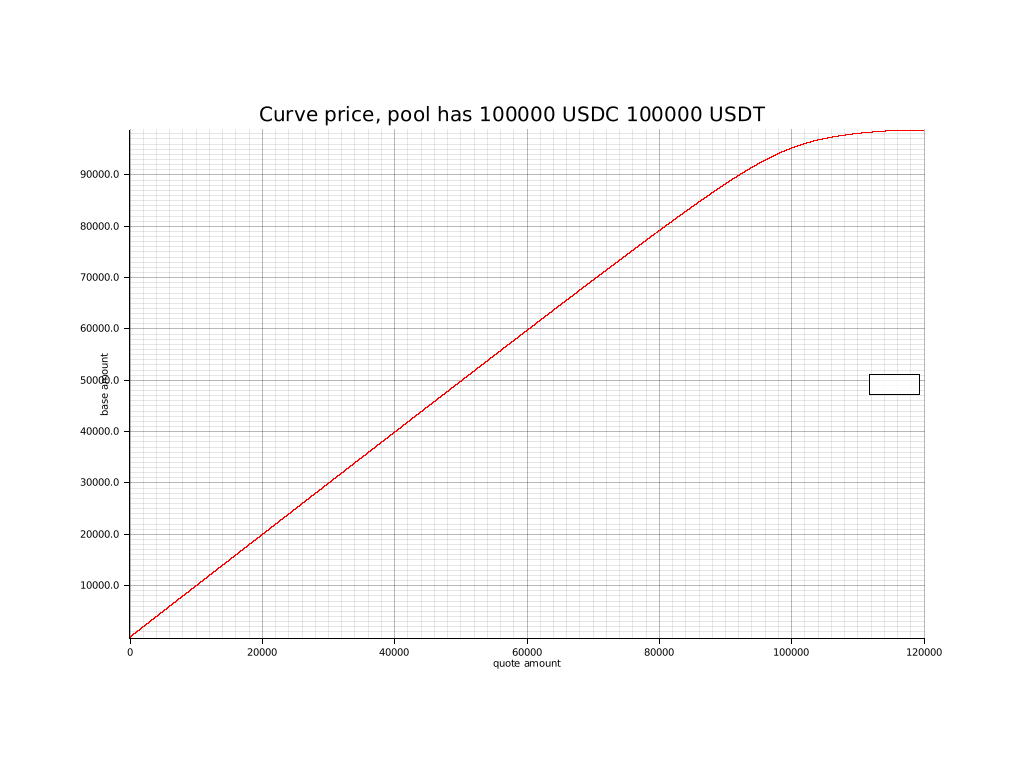
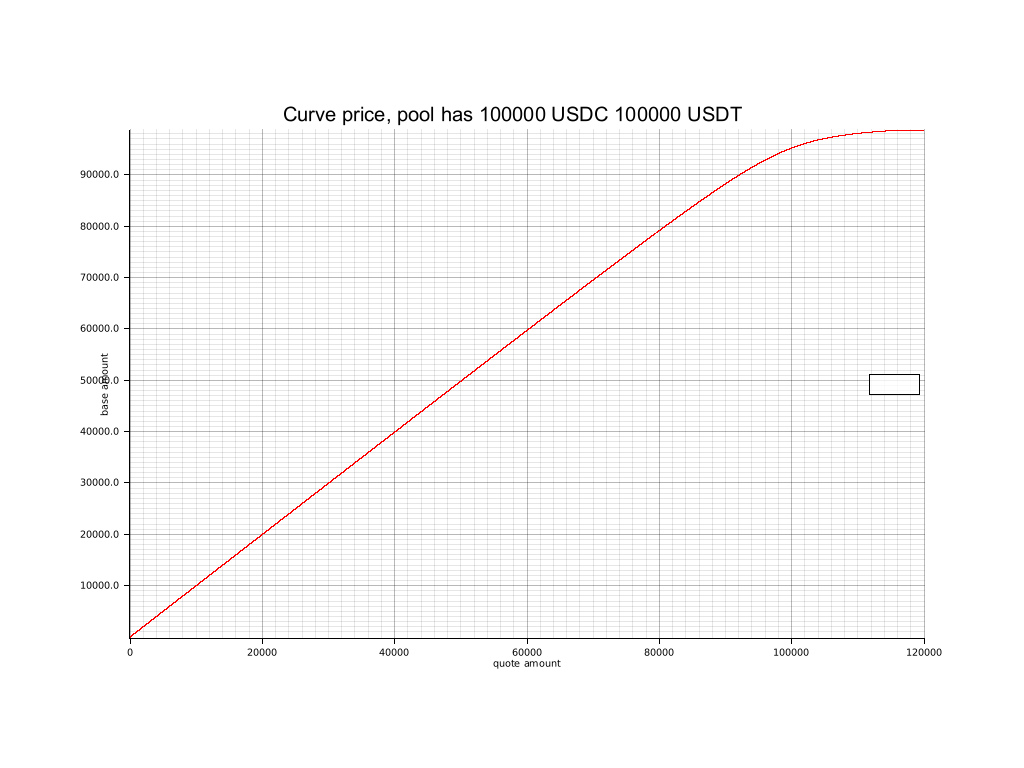
fix(curve-amm): mocks + curve graph drawing

Changed region(s): [[0.25, 0.125, 0.75, 0.1562], [0.5, 0.8438, 0.5312, 0.875], [0.0938, 0.4688, 0.125, 0.5]]

diff --git a/frame/curve-amm/src/tests.rs b/frame/curve-amm/src/tests.rs
@@ -427,20 +427,21 @@ fn curve_graph() {
 	new_test_ext().execute_with(|| {
 		let unit = 1_000_000_000_000_u128;
 		let initial_usdt = 5_u128 * unit;
-		let initial_usdc = 5_u128 * unit;
+		let initial_usdc = initial_usdt;
 		let pool_id = create_pool(
 			USDC,
 			USDT,
 			initial_usdc,
 			initial_usdt,
-			100_u16,
+			5_u16,
 			Permill::zero(),
 			Permill::zero(),
 		);
-		let max_base = (initial_usdt + initial_usdc);
-		let max_quote = (initial_usdt + initial_usdc);
+		let window = 15u128;
+		let max_base = (initial_usdt + window * unit) as f64 / unit as f64;
+		let max_quote = max_base;
 		let pool_account = StableSwap::account_id(&pool_id);
-		let range: Vec<u128> = (0..15_u128).collect();
+		let range: Vec<u128> = (0..window).collect();
 
 		let quote_balance = Tokens::balance(USDT, &pool_account);
 		let base_balance = Tokens::balance(USDC, &pool_account);
@@ -451,8 +452,10 @@ fn curve_graph() {
 				Tokens::mint_into(USDC, &BOB, amount);
 				let _base = <StableSwap as CurveAmm>::sell(&BOB, pool_id, USDC, amount, true)
 					.expect("impossible; qed;");
-				let pool_sell_asset_balance = Tokens::balance(USDC, &pool_account);
-				let pool_buy_asset_balance = Tokens::balance(USDT, &pool_account);
+				let pool_sell_asset_balance =
+					Tokens::balance(USDC, &pool_account) as f64 / unit as f64;
+				let pool_buy_asset_balance =
+					Tokens::balance(USDT, &pool_account) as f64 / unit as f64;
 				(pool_buy_asset_balance, pool_sell_asset_balance)
 			})
 			.collect::<Vec<_>>();
@@ -461,7 +464,7 @@ fn curve_graph() {
 			USDT,
 			initial_usdc,
 			initial_usdt,
-			100_u16,
+			5_u16,
 			Permill::zero(),
 			Permill::zero(),
 		);
@@ -473,12 +476,14 @@ fn curve_graph() {
 				Tokens::mint_into(USDT, &BOB, amount);
 				let _base = <StableSwap as CurveAmm>::sell(&BOB, pool_id, USDT, amount, true)
 					.expect("impossible; qed;");
-				let pool_sell_asset_balance = Tokens::balance(USDT, &pool_account);
-				let pool_buy_asset_balance = Tokens::balance(USDC, &pool_account);
+				let pool_sell_asset_balance =
+					Tokens::balance(USDC, &pool_account) as f64 / unit as f64;
+				let pool_buy_asset_balance =
+					Tokens::balance(USDT, &pool_account) as f64 / unit as f64;
 				(pool_buy_asset_balance, pool_sell_asset_balance)
 			})
 			.collect::<Vec<_>>();
-		let points: Vec<(u128, u128)> = points1.into_iter().chain(points2.into_iter()).collect();
+		let points: Vec<_> = points1.into_iter().rev().chain(points2.into_iter()).collect();
 		use plotters::prelude::*;
 		let area = BitMapBackend::new("./curve_graph.png", (1024, 768)).into_drawing_area();
 		area.fill(&WHITE).unwrap();
@@ -488,7 +493,7 @@ fn curve_graph() {
 			.margin(100u32)
 			.x_label_area_size(30u32)
 			.y_label_area_size(30u32)
-			.build_cartesian_2d(0_u128..max_base, 0_u128..max_quote)
+			.build_cartesian_2d(0f64..max_base as f64, 0f64..max_quote as f64)
 			.unwrap();
 
 		chart

diff --git a/frame/curve-amm/src/mock.rs b/frame/curve-amm/src/mock.rs
@@ -104,7 +104,7 @@ impl pallet_balances::Config for Test {
 pub type Balance = u128;
 pub type AssetId = u128;
 pub type Amount = i128;
-pub type PoolId = u32;
+pub type PoolId = u128;
 
 parameter_type_with_key! {
 	pub ExistentialDeposits: |_currency_id: AssetId| -> Balance {
